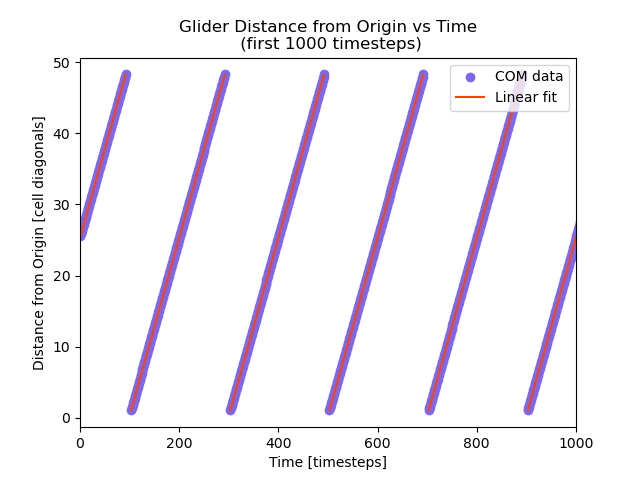
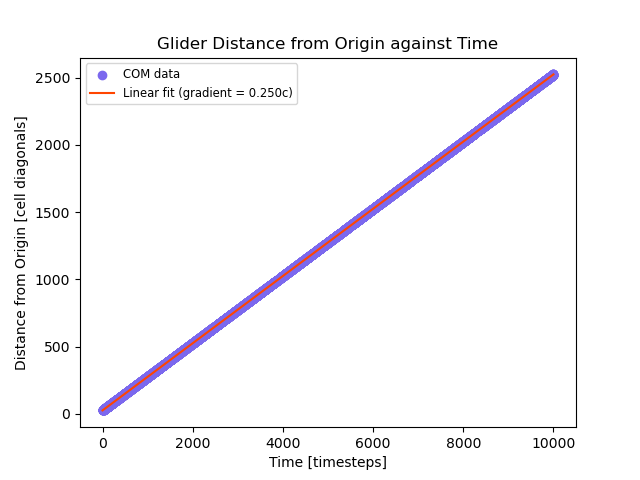
task 3 yet again

diff --git a/checkpoint 2/gol_analysis.py b/checkpoint 2/gol_analysis.py
@@ -21,7 +21,7 @@ def task2(filename):
     plt.legend()
     plt.show()
 
-def task3(filename):
+def task3_OLD(filename):
     """
     Analyse the speed of the glider. Plot glider distance from origin against timestep.
     Use curve fit to find gradient for multiple segments of motion, then plot each fit over the data. 
@@ -64,17 +64,60 @@ def task3(filename):
     upper_t = t[upper_limit]
     plt.scatter(t_split[0], d_split[0]/np.sqrt(2), color='mediumslateblue', marker='o', label='COM data')
     plt.plot(t_split[0], linear_func(t_split[0], speeds[0], intercepts[0]), color='orangered', linestyle='-', label='Linear fit')
+    pbc = 0
     for T, D, S, I in zip(t_split[1:], d_split[1:], speeds[1:], intercepts[1:]):
+        pbc += 1
         # Divide data by sqrt(2) to account for diagonal motion of glider
-        plt.scatter(T, D/np.sqrt(2), color='mediumslateblue', marker='o')
-        plt.plot(T, linear_func(T, S, I), color='orangered', linestyle='-')
+        plt.scatter(T, D/np.sqrt(2) + (pbc * 50), color='mediumslateblue', marker='o')
+        plt.plot(T, linear_func(T, S, I) + (pbc * 50), color='orangered', linestyle='-')
     plt.title(f"Glider Distance from Origin vs Time\n (first {upper_t} timesteps)")
     plt.xlabel("Time [timesteps]")
     plt.ylabel("Distance from Origin [cell diagonals]")
-    plt.yticks([0, 10, 20, 30, 40, 50], ['0', '10', '20', '30', '40', '50'])
-    plt.xlim(0, upper_t)
+    #plt.yticks([0, 10, 20, 30, 40, 50], ['0', '10', '20', '30', '40', '50'])
+    #plt.xlim(0, upper_t)
     plt.legend(loc='upper right')
     plt.show()
+
+def task3(filename):
+    """
+    Analyse the speed of the glider. Plot glider distance from origin against timestep.
+    Use curve fit to find gradient of cells travelled against time, then plot the fit over the data. 
+    Display the mean speed, and the standard error on the mean.
+    
+    Arguments:
+        filename: Name of file containing glider position data
+    """
+    # Read glider position data from file
+    data = pd.read_csv(filename)
+    t = data['t'].values
+    x = data['x'].values
+    y = data['y'].values
+    # Combine x and y position data to get total distance travelled at each time step
+    # Divide by sqrt(2) to account for diagonal motion of glider, giving distance in cell diagonals
+    d = np.sqrt((x**2 + y**2)) / np.sqrt(2)
+    # Split the data for crossing of periodic boundary conditions
+    splits = np.where(np.diff(t) > 1)[0] + 1
+    # Adjust distances to account for each crossing of the periodic boundaries
+    for i in range(len(splits)):
+        d[splits[i]:] += 50
+    # Define a linear function for curve fitting
+    linear_func = lambda t, m, c: m * t + c
+    # Fit the linear function to the glider motion and extract the gradient (speed)
+    popt, _ = curve_fit(linear_func, t, d)
+    # Unit of speed is cell diagonals per timestep, a.k.a. 'c'
+    speed = popt[0]
+    intercept = popt[1]
+    # Print speed
+    print(f'Speed = {speed:.3f}c')
+    # Plot cells from origin vs time
+    plt.scatter(t, d, color='mediumslateblue', marker='o', label='COM data')
+    plt.plot(t, linear_func(t, speed, intercept), color='orangered', linestyle='-', label=f'Linear fit (gradient = {speed:.3f}c)')
+    plt.title(f"Glider Distance from Origin against Time")
+    plt.xlabel("Time [timesteps]")
+    plt.ylabel("Distance from Origin [cell diagonals]")
+    plt.legend(loc='upper left', fontsize='small')
+    plt.show()
+    
 
 
 
